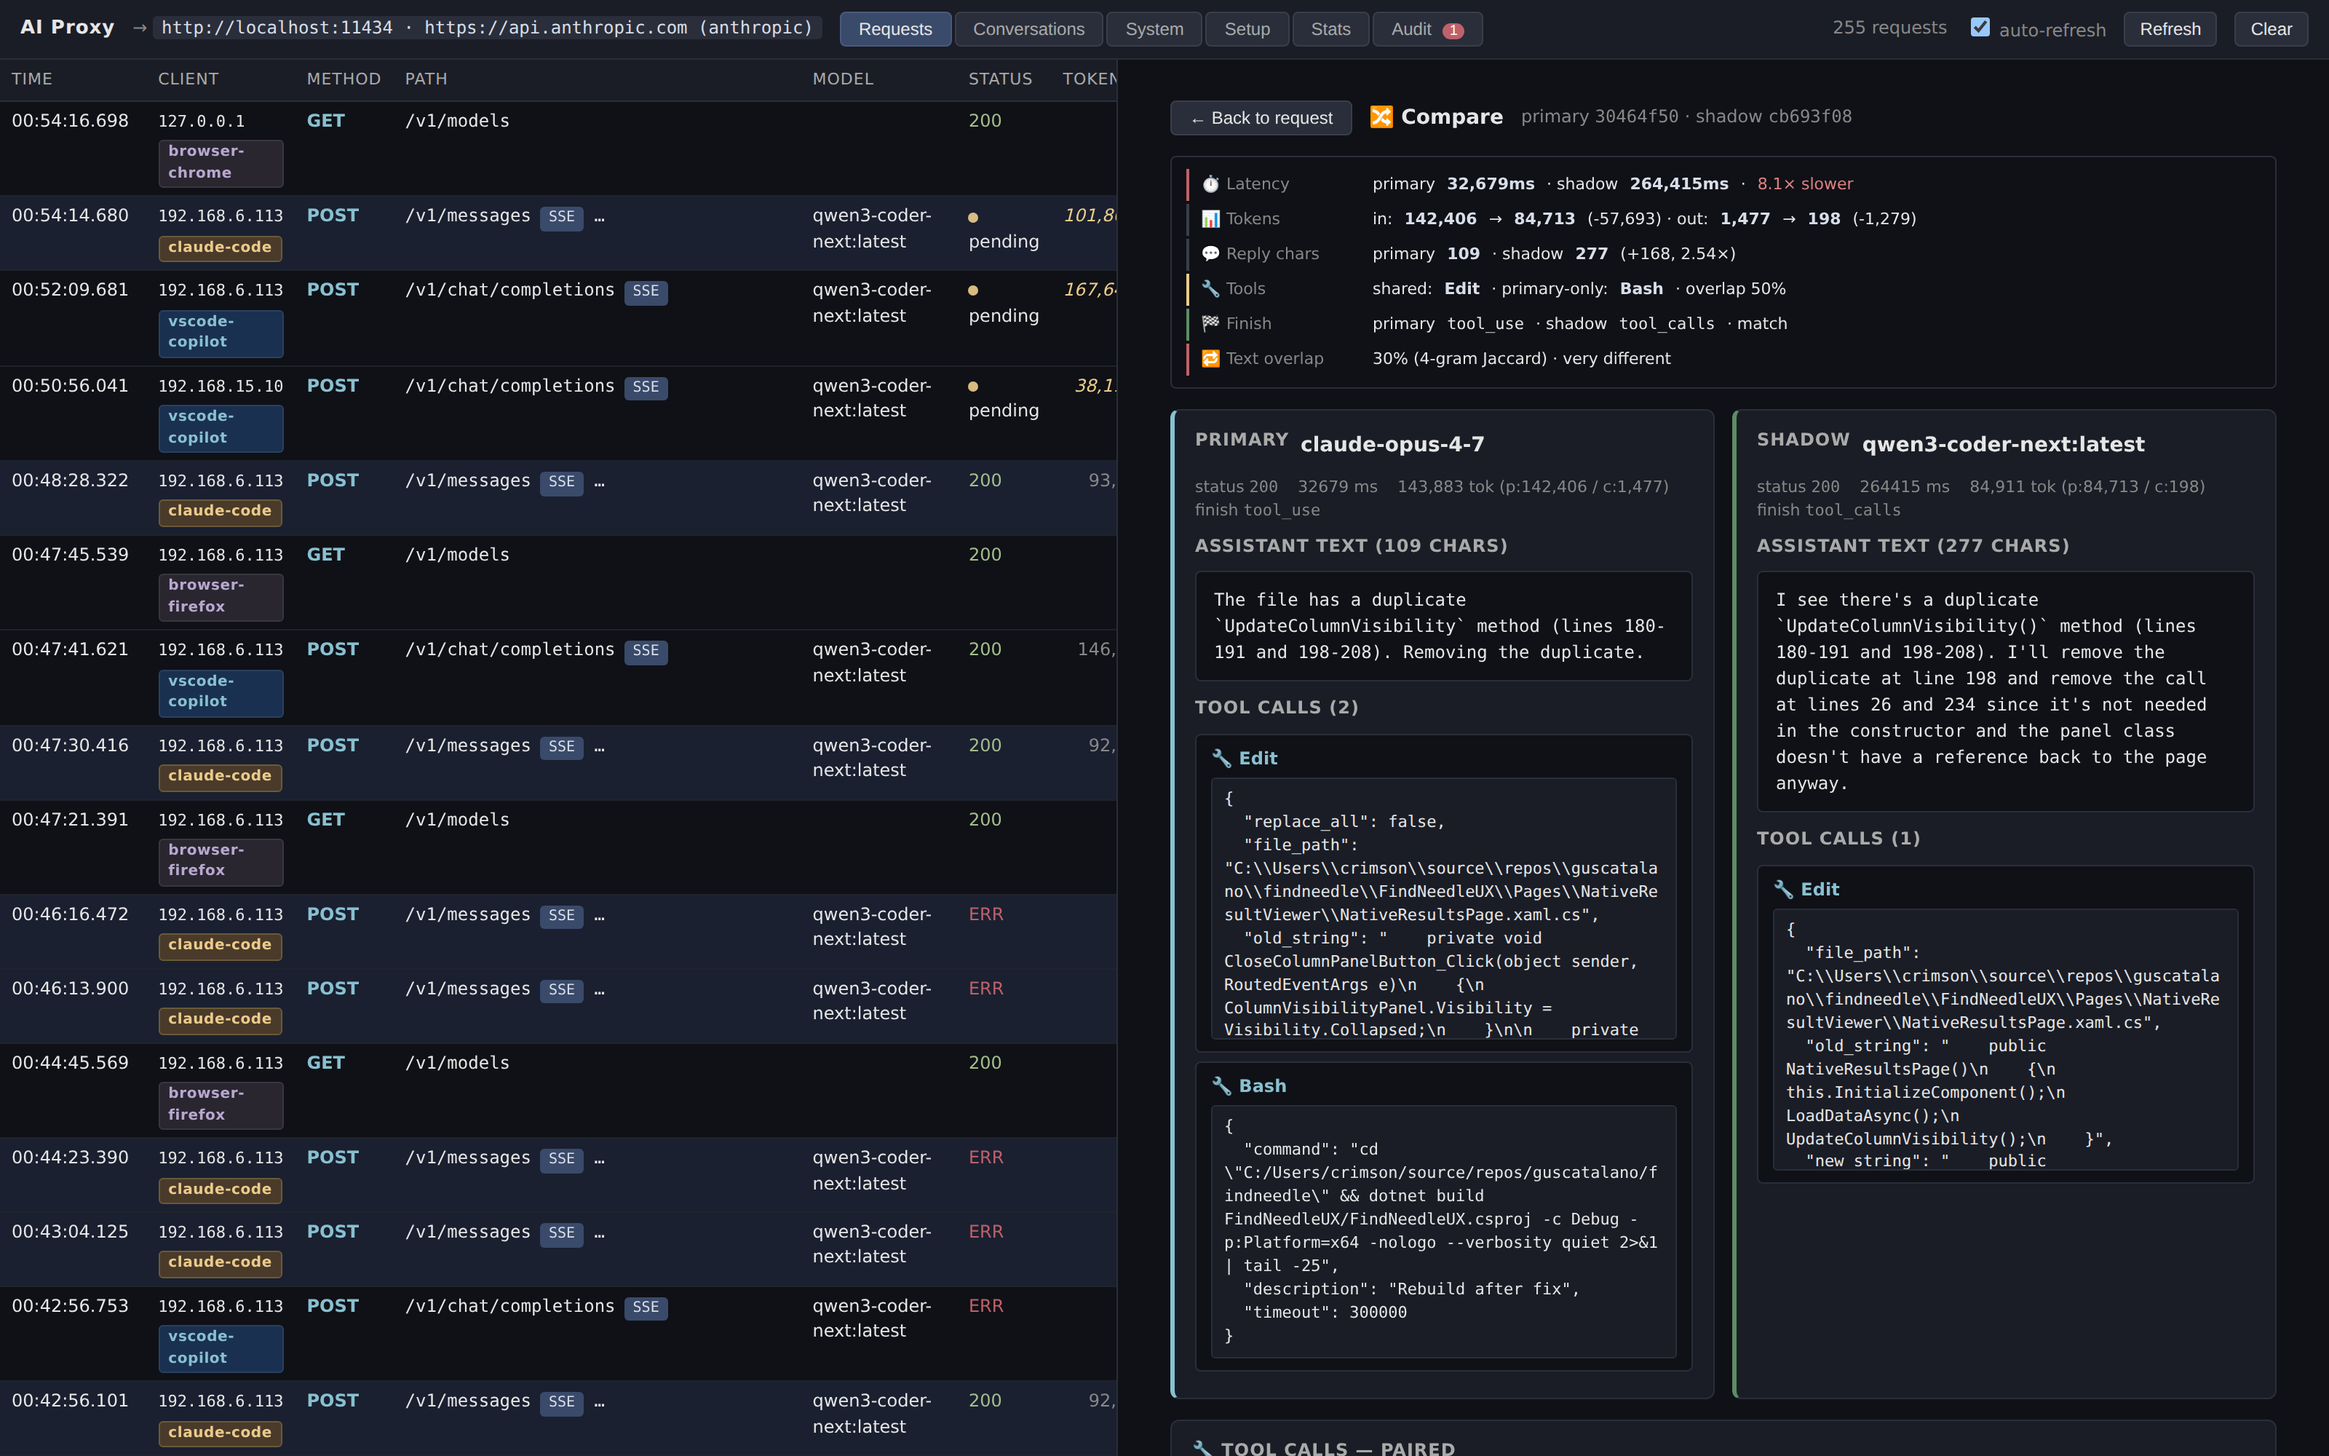
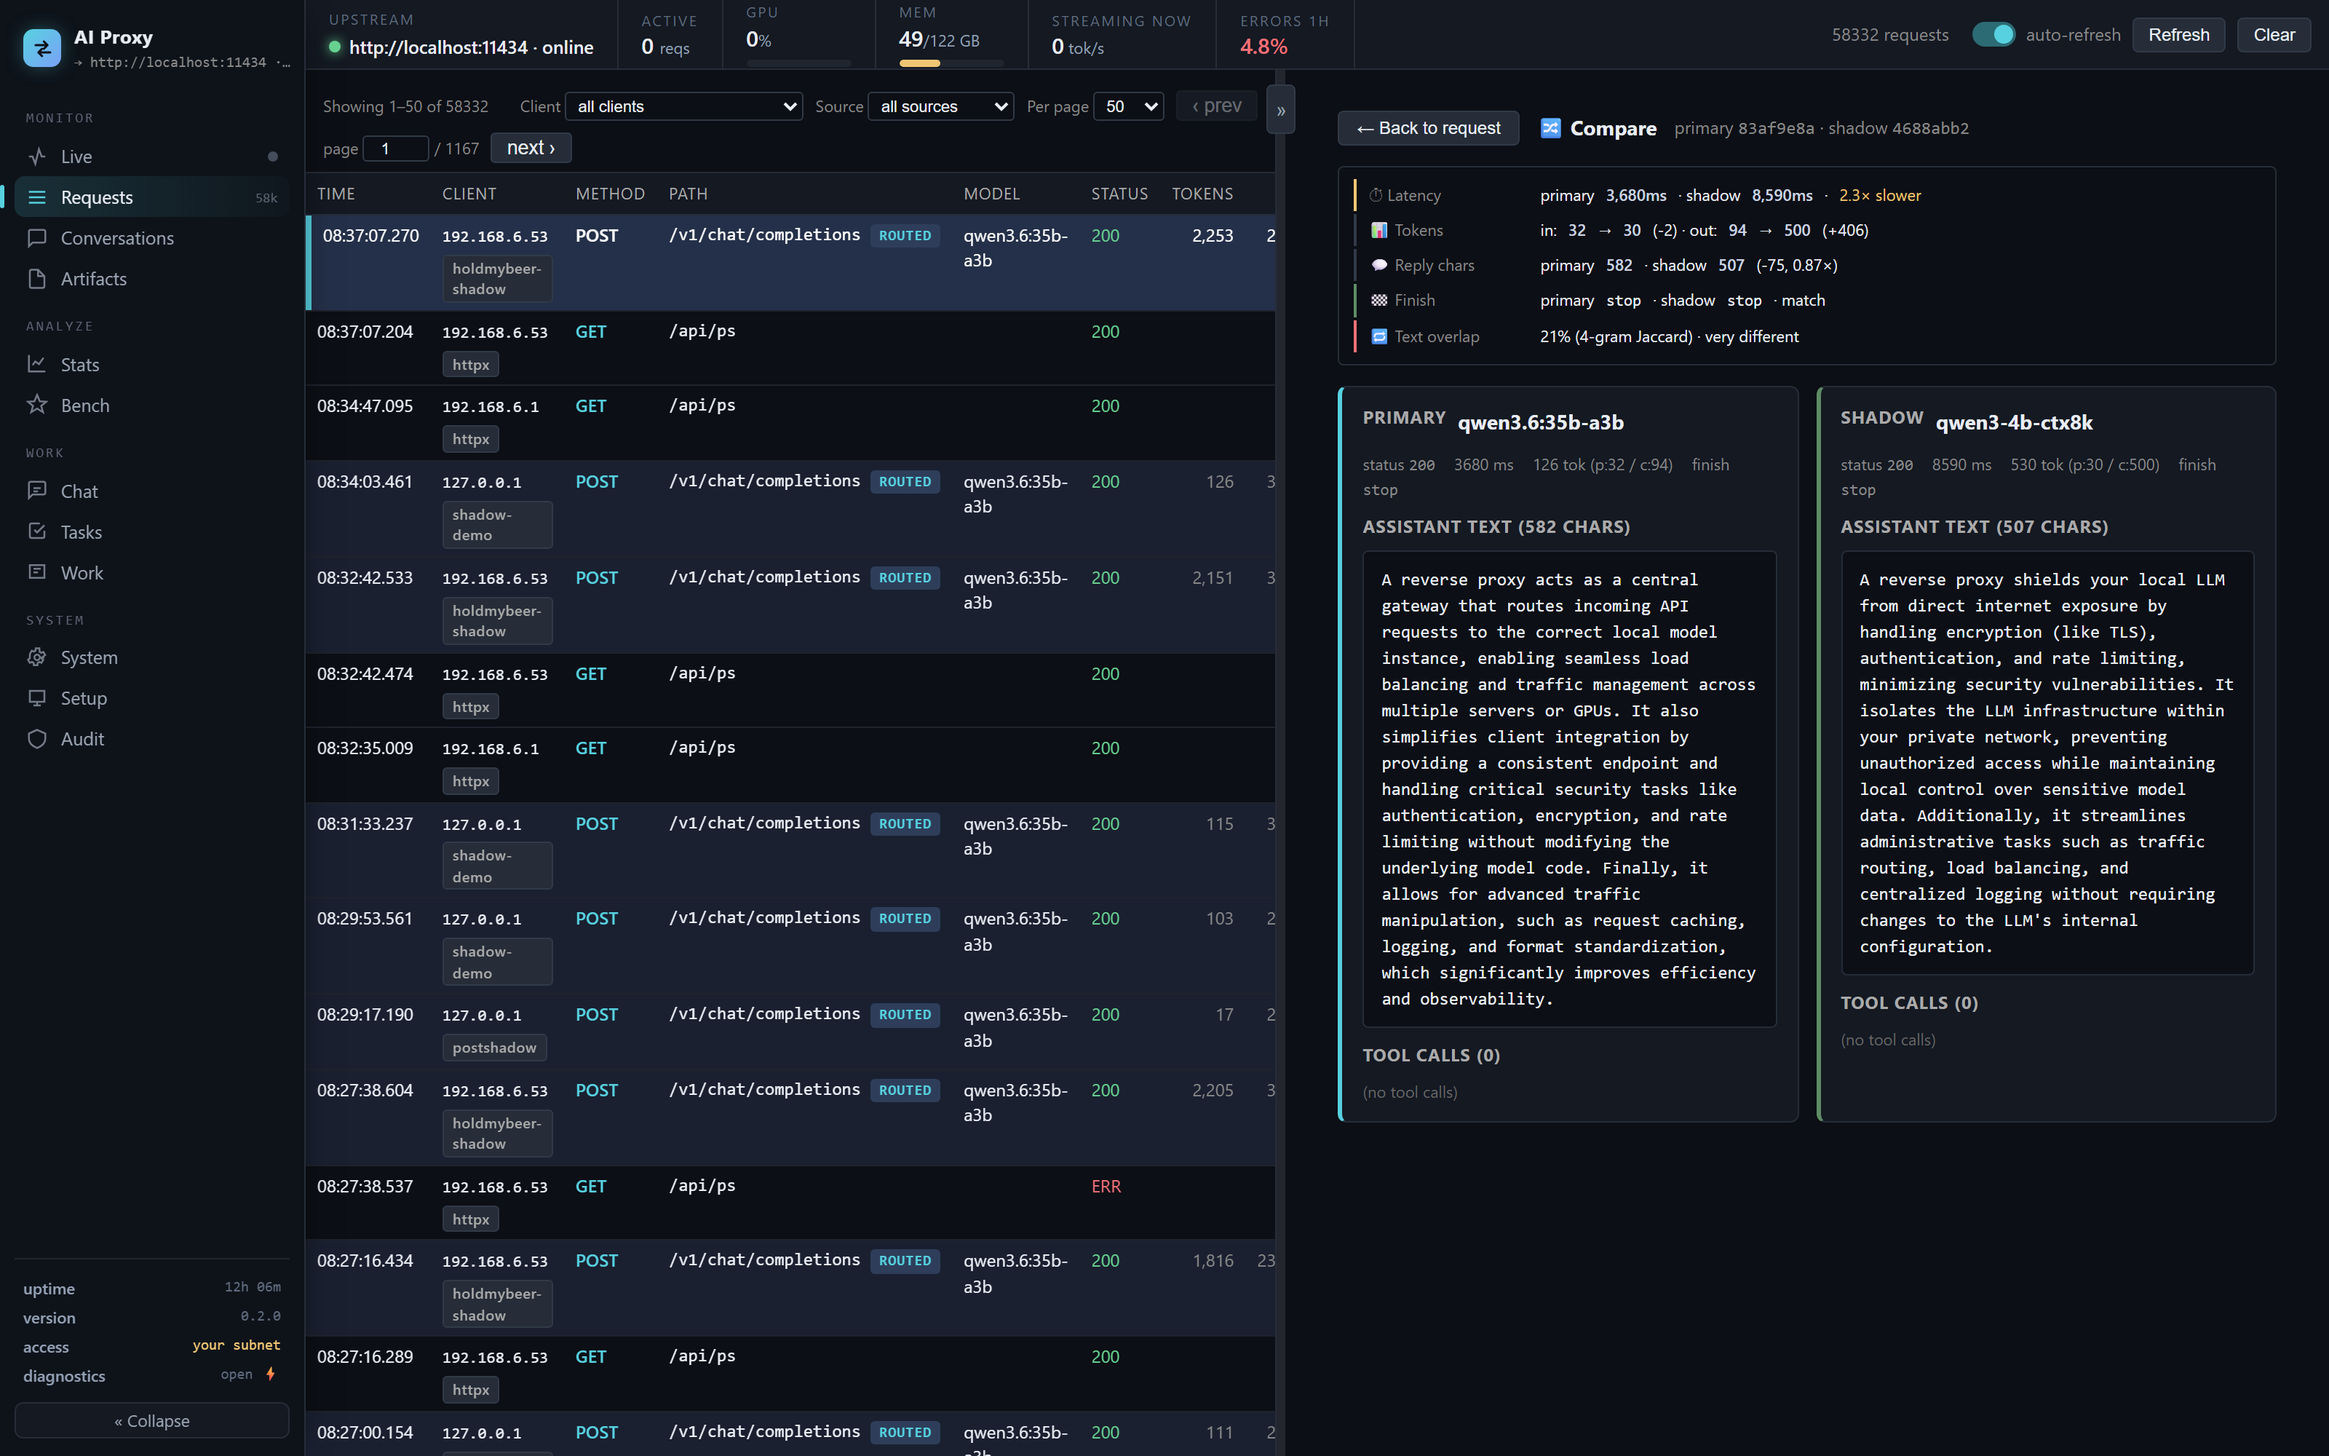
Document what the local-backend work added, and refresh the screenshots
The README still described a proxy with one vLLM and no way to start it. Adds
the backend registry, auto-load for fixed backends, the memory refusals, holding
through a restart, and model-to-backend resolution; corrects the System tab
description and documents the Work scratchboard, which was missing entirely.

The screenshots were four months and one whole Bench subsystem stale, and the
capture script no longer worked: it clicked `#tab-req`, but the dashboard moved
to `data-view` nav buttons, so every click silently timed out and the shots came
back on whatever tab happened to be open. It also waited a flat 700 ms, which was
enough for a demo database and not for 58k requests — Stats returned an empty
pane under a correctly-highlighted tab, which looks like a working screenshot
until you open it. Now it settles on the network first, covers the views added
since (Live, Bench, Artifacts, Tasks), and captures the Stats Flow sub-tab
separately so the README's lead image matches its own caption.

Shadow comparison leads the section: it is the feature that is hardest to
picture from prose, and the shot is a real run — a 35B MoE on vLLM against a 4B
model on Ollama, both answering the same request.

Changed region(s): [[0.0, 0.0, 0.9688, 1.0], [0.7812, 0.0, 1.0, 0.031], [0.0, 0.837, 0.0312, 0.961]]

diff --git a/scripts/screenshots.py b/scripts/screenshots.py
@@ -40,24 +40,45 @@ except ImportError:
     sys.exit(1)
 
 
+# The view slug is the whole address: the nav button carries data-view, the container is #slug,
+# and it is shown by toggling .show. The old list hard-coded button ids like "tab-req" that the
+# UI stopped using, so every click silently timed out and the shots came back on whatever tab
+# happened to be open.
 TABS = [
-    ("requests", "Requests", "tab-req"),
-    ("convs", "Conversations", "tab-convs"),
-    ("system", "System", "tab-system"),
-    ("setup", "Setup", "tab-setup"),
-    ("stats", "Stats (with traffic flow)", "tab-stats"),
-    ("audit", "Audit (rules + suggestions)", "tab-audit"),
+    ("requests", "Requests"),
+    ("convs", "Conversations"),
+    ("live", "Live view"),
+    ("bench", "Bench"),
+    ("system", "System (backend registry)"),
+    ("stats", "Stats (with traffic flow)"),
+    ("audit", "Audit (rules + suggestions)"),
+    ("artifacts", "Artifacts"),
+    ("tasks", "Tasks"),
+    ("setup", "Setup"),
 ]
 
 
-async def click_tab(page, tab_button_id: str, view_id: str) -> None:
-    await page.click(f"#{tab_button_id}")
+async def click_tab(page, view_id: str, _unused=None) -> None:
+    # Click the real nav button where there is one; fall back to the function it calls, so a
+    # view that is only reachable from elsewhere still gets captured.
+    try:
+        await page.click(f'button.snav[data-view="{view_id}"]', timeout=3000)
+    except PWTimeout:
+        await page.evaluate(f"setView('{view_id}')")
     # The view is shown by toggling .show on its container; wait for that to flip.
     try:
         await page.wait_for_selector(f"#{view_id}.show", timeout=4000)
     except PWTimeout:
         pass
-    await page.wait_for_timeout(700)  # let auto-refresh paint at least once
+    # Then wait for it to actually PAINT. 700 ms was enough when the demo DB was small; against
+    # 58k requests the Stats charts had not drawn yet and the shot came back as an empty pane
+    # under a correctly-highlighted tab — which looks like a working screenshot until you open
+    # it. Settle on the network first, then give the chart code a beat to draw.
+    try:
+        await page.wait_for_load_state("networkidle", timeout=15000)
+    except PWTimeout:
+        pass
+    await page.wait_for_timeout(2500)
 
 
 async def capture(page, out_dir: Path, name: str) -> None:
@@ -123,18 +144,29 @@ async def run(url: str, out: Path, width: int, height: int) -> None:
         )
         page = await ctx.new_page()
         await page.goto(url, wait_until="networkidle")
-        await page.wait_for_selector("#tab-req", timeout=8000)
+        await page.wait_for_selector('button.snav[data-view="requests"]', timeout=8000)
         await page.wait_for_timeout(500)
 
         # 1. Each tab.
-        for slug, label, btn in TABS:
+        for slug, label in TABS:
             print(f"[{label}]")
-            await click_tab(page, btn, slug)
+            await click_tab(page, slug)
             await capture(page, out, f"tab-{slug}")
+
+        # 1b. The Flow sub-tab of Stats — the rule pipeline diagram the README leads with.
+        # Stats opens on Trends, so capturing the tab alone gives charts, not the flow.
+        print("[Stats · Flow]")
+        await click_tab(page, "stats")
+        try:
+            await page.evaluate("setStatsTab('flow')")
+            await page.wait_for_timeout(1800)
+            await capture(page, out, "stats-flow")
+        except Exception as e:
+            print(f"  - could not open the Flow sub-tab: {e}")
 
         # 2. Request detail (latest request with a status).
         print("[Request detail]")
-        await click_tab(page, "tab-req", "requests")
+        await click_tab(page, "requests")
         rid = await first_request_id(page)
         if rid:
             await page.evaluate(f"selectItem('{rid}')")
@@ -145,7 +177,7 @@ async def run(url: str, out: Path, width: int, height: int) -> None:
 
         # 3. Conversation detail.
         print("[Conversation detail]")
-        await click_tab(page, "tab-convs", "convs")
+        await click_tab(page, "convs")
         cid = await first_conversation_id(page)
         if cid:
             await page.evaluate(f"loadConversationDetail('{cid}')")
@@ -156,7 +188,7 @@ async def run(url: str, out: Path, width: int, height: int) -> None:
 
         # 4. Shadow comparison page.
         print("[Compare view]")
-        await click_tab(page, "tab-req", "requests")
+        await click_tab(page, "requests")
         primary_id, shadow_id = await first_request_with_shadow(page)
         if primary_id and shadow_id:
             await page.evaluate(f"openCompare('{primary_id}', '{shadow_id}')")

diff --git a/README.md b/README.md
@@ -9,7 +9,7 @@ Built around two ideas:
 1. **Observability without changing your client** — set `ANTHROPIC_BASE_URL` (or `OPENAI_BASE_URL`, or `OLLAMA_HOST`) to the proxy and every request, response, tool call, token count, and conversation thread is captured automatically.
 2. **Rules that improve model behavior** — pre/post-flight hooks catch loops, fix malformed tool calls, prune unused tools, compress bloated context, prevent silent context-window truncation, route requests across models, and more.
 
-![Live traffic flow with rule pipeline](docs/screenshots/tab-stats.png)
+![Live traffic flow with rule pipeline](docs/screenshots/stats-flow.png)
 
 ---
 
@@ -40,7 +40,9 @@ Built around two ideas:
 - **Identify the client app** — distinguishes Claude Code, VS Code Copilot Chat, Cursor, Continue, Cline, Anthropic SDK, OpenAI SDK, LangChain, Hermes Agent, browsers, etc. via header, User-Agent, and system-prompt fingerprinting.
 - **Track artifacts** — every file, URL, directory, and image the model touched through a tool call, extracted from request bodies and aggregated by path. Drill down by conversation, browse the file tree, see each write's content size, and read the captured content inline.
 - **Aggregate stats** — per-model, per-client, per-app, per-tool counts, tokens, latency percentiles, and throughput, plus trend charts over time.
-- **System metrics** — CPU, memory, GPU utilization and VRAM, loaded models on Ollama / LM Studio / vLLM, Ollama's server config, and an update check against a minimum version.
+- **System metrics** — CPU, memory, GPU utilization and VRAM, loaded models per backend, Ollama's server config, and an update check against a minimum version.
+- **Know whether a tool call worked** — each request row records the outcome of the tool calls it made, joined to the result that came back a turn later, so a call that silently failed is visible instead of being filed as a success.
+- **Tell one surface from another** — a single agent can arrive as a Discord bot, a cron job, a CLI session and a windowed UI with identical IP, User-Agent and client name. The context leaks into the request anyway, and the proxy reads it, so the four are counted separately.
 
 ### Intervene
 
@@ -50,6 +52,11 @@ Built around two ideas:
 - **Compress context** — a deterministic compressor squeezes bulky tool outputs and JSON blobs already in the history, with a shadow mode that measures the savings before you commit to it.
 - **Handle model quirks** — per-model reasoning control (force thinking off, make it opt-in, or leave it alone) and system nudges, matched by model-name pattern and hot-reloaded from a JSON file.
 - **Shadow runs** — send the same request to a primary upstream *and* a local model in parallel, store both, and get an automatic side-by-side comparison (latency delta, token delta, tool-call agreement, text similarity).
+- **Run the local backends** — Ollama, LM Studio, llama.cpp and two independent vLLM servers are all first-class. Each knows how to start and stop itself, appears in the model catalogue whether it is up or not, and can be driven from the UI.
+- **Load on demand, even for fixed backends** — vLLM and llama.cpp serve exactly what they were launched with, so a request for a stopped model used to 404. Opt in to auto-load and the proxy starts what is needed, waits for it to actually serve, and evicts another model only when the target does not fit in free memory.
+- **Refuse instead of wedging the box** — a request that cannot fit is answered with the arithmetic rather than forwarded. Model weights, KV cache and a vLLM boot's real memory claim are all priced, because a start the machine cannot absorb starves the proxy and sshd first, and nothing can undo it afterwards.
+- **Hold through a restart** — a backend that drops the connection is usually restarting, not gone. Rather than returning 502 to everything that arrives while it reloads, the proxy waits for it to serve again and re-sends, bounded, and only while it is genuinely coming up.
+- **Send a model where it actually lives** — name a model and it goes to whichever backend serves it, without a routing rule; where two backends serve the same name, the qualified `model/backend` form picks one.
 - **Take control** — kill a specific in-flight request to free the GPU slot, or flip panic mode to 503 all proxied traffic while keeping the dashboard up.
 
 ### Automate
@@ -194,13 +201,23 @@ Everything lives under `/__proxy/`. The navigation rail groups the views; on a p
 | **Artifacts** | Files, URLs, directories, and images touched via tool calls — by conversation, by folder, or ranked by activity, with inline content viewing and per-write content sizes. |
 | **Stats** | KPI strip plus a tabbed breakdown by model, client, app, and tool; a Trends tab with per-chart enlarge. |
 | **Audit** | Gate verdict log, the rules editor, routing-mode toggle, and the auditor's automatic suggestions. |
-| **System** | CPU, memory, GPU, loaded models per upstream, Ollama config and update check, access badge, and the restart button. |
+| **System** | CPU, memory, GPU, and a panel per backend built from the registry — what each is serving, whether it is up, and start/stop where the proxy can manage it. Plus Ollama config, update check, access badge, and the restart button. |
 | **Bench** | Queue and inspect benchmark runs and sweeps, with graded quality scoring and N-way comparison. |
 | **Tasks** | One-shot and scheduled prompt runs. |
 | **Chat** | A minimal chat client that talks through the proxy, so you can exercise a model without another tool. |
+| **Work** | A shared scratchboard: working notes and dropped files that every machine on the network sees the same view of. Deliberately exempt from the PII gate — the notes are written by the viewers rather than captured from them, and a board each machine sees differently is not a shared board. |
 | **Setup** | Client configuration snippets. |
 
 ### Screenshots
+
+Regenerate these against a running proxy with `python scripts/screenshots.py --url http://host:port/__proxy/`.
+
+#### Shadow comparison — the same request answered by a big model and a small local one, side by side
+A rule fans the request out to a second model in parallel. The client gets the primary answer
+unchanged; the proxy keeps both and works out what differed — here a 35B MoE on vLLM against a 4B
+model on Ollama, 2.3× the latency for 21% text overlap.
+
+![Compare view](docs/screenshots/compare-view.png)
 
 #### Requests list — every API call, with client app badges
 ![Requests list](docs/screenshots/tab-requests.png)
@@ -211,14 +228,20 @@ Everything lives under `/__proxy/`. The navigation rail groups the views; on a p
 #### Conversations — threaded turns with TOC navigation
 ![Conversation detail](docs/screenshots/conversation-detail.png)
 
-#### Shadow comparison — side-by-side primary vs local model
-![Compare view](docs/screenshots/compare-view.png)
+#### Live — one tile per active conversation, updating as the model generates
+![Live view](docs/screenshots/tab-live.png)
+
+#### Stats — KPI strip, trend charts, and a tabbed breakdown by model, app, client and tool
+![Stats tab](docs/screenshots/tab-stats.png)
+
+#### Bench — models × context × thinking mode in one sweep, graded against executable tasks
+![Bench tab](docs/screenshots/tab-bench.png)
+
+#### System — one panel per backend, from the registry: what it serves, whether it is up, start/stop
+![System tab](docs/screenshots/tab-system.png)
 
 #### Audit tab — routing toggle, rule editor, automatic suggestions
 ![Audit tab](docs/screenshots/tab-audit.png)
-
-#### System — CPU, memory, GPU, loaded models, restart button
-![System tab](docs/screenshots/tab-system.png)
 
 ---
 
